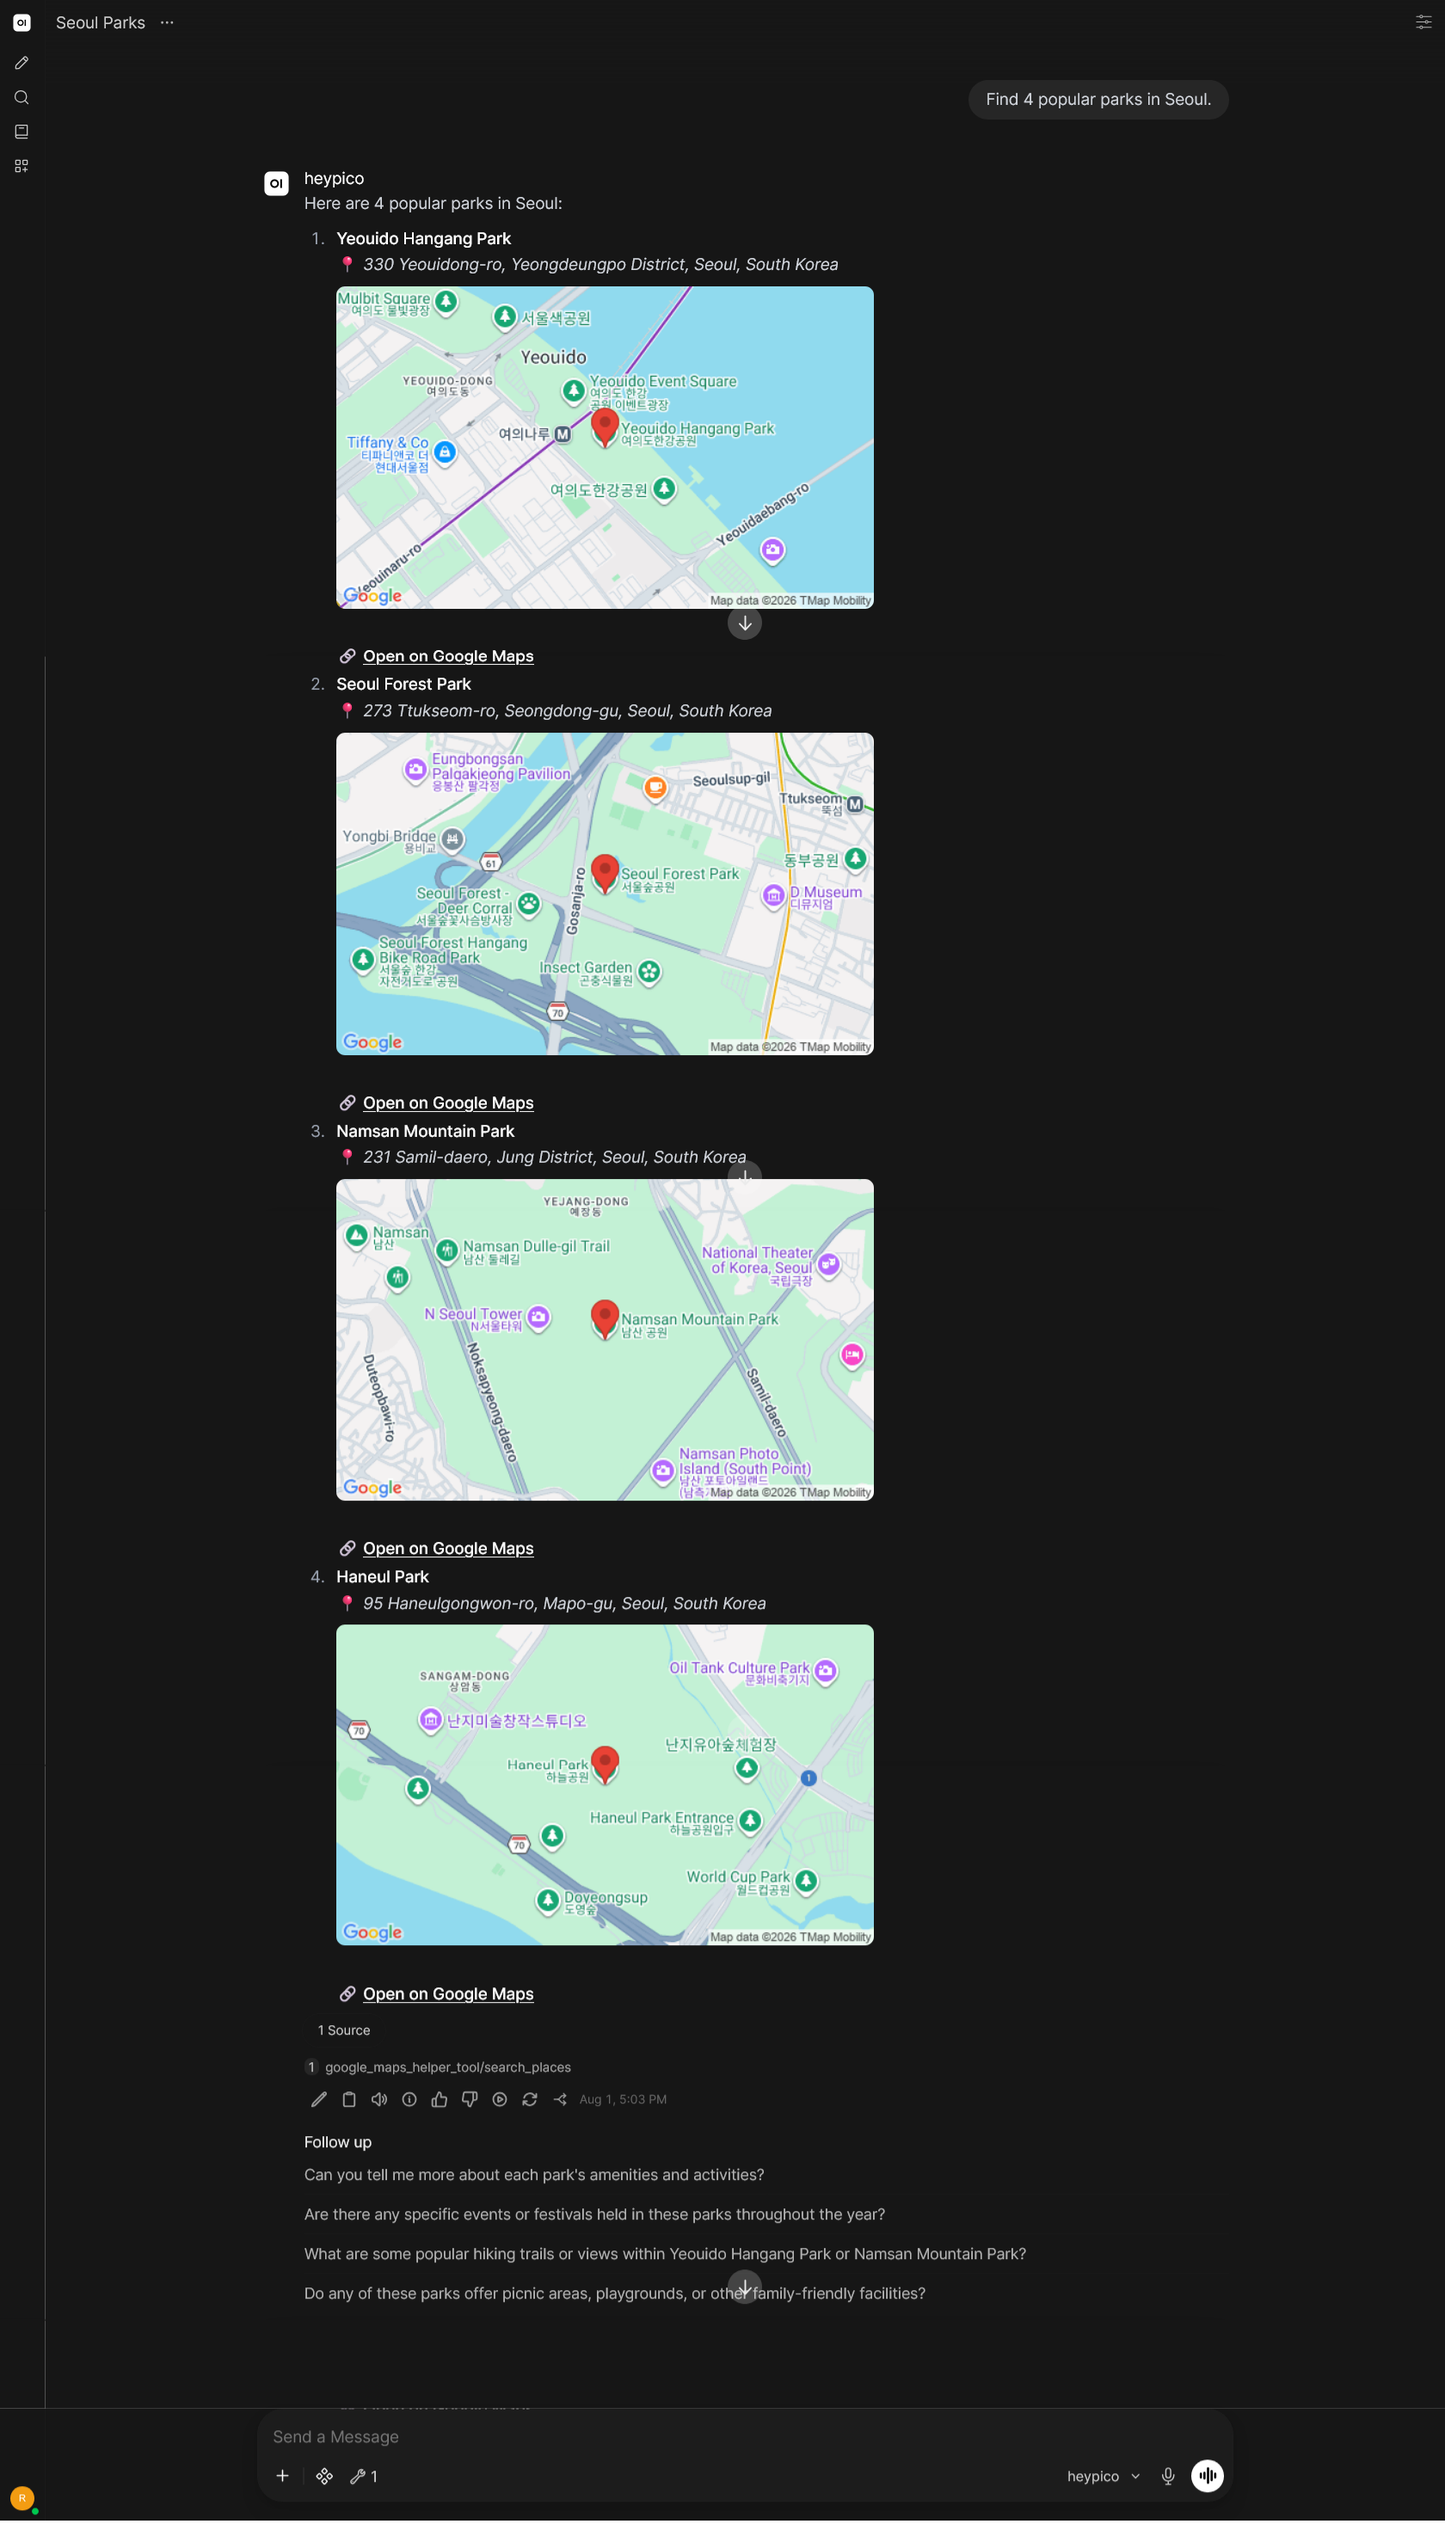
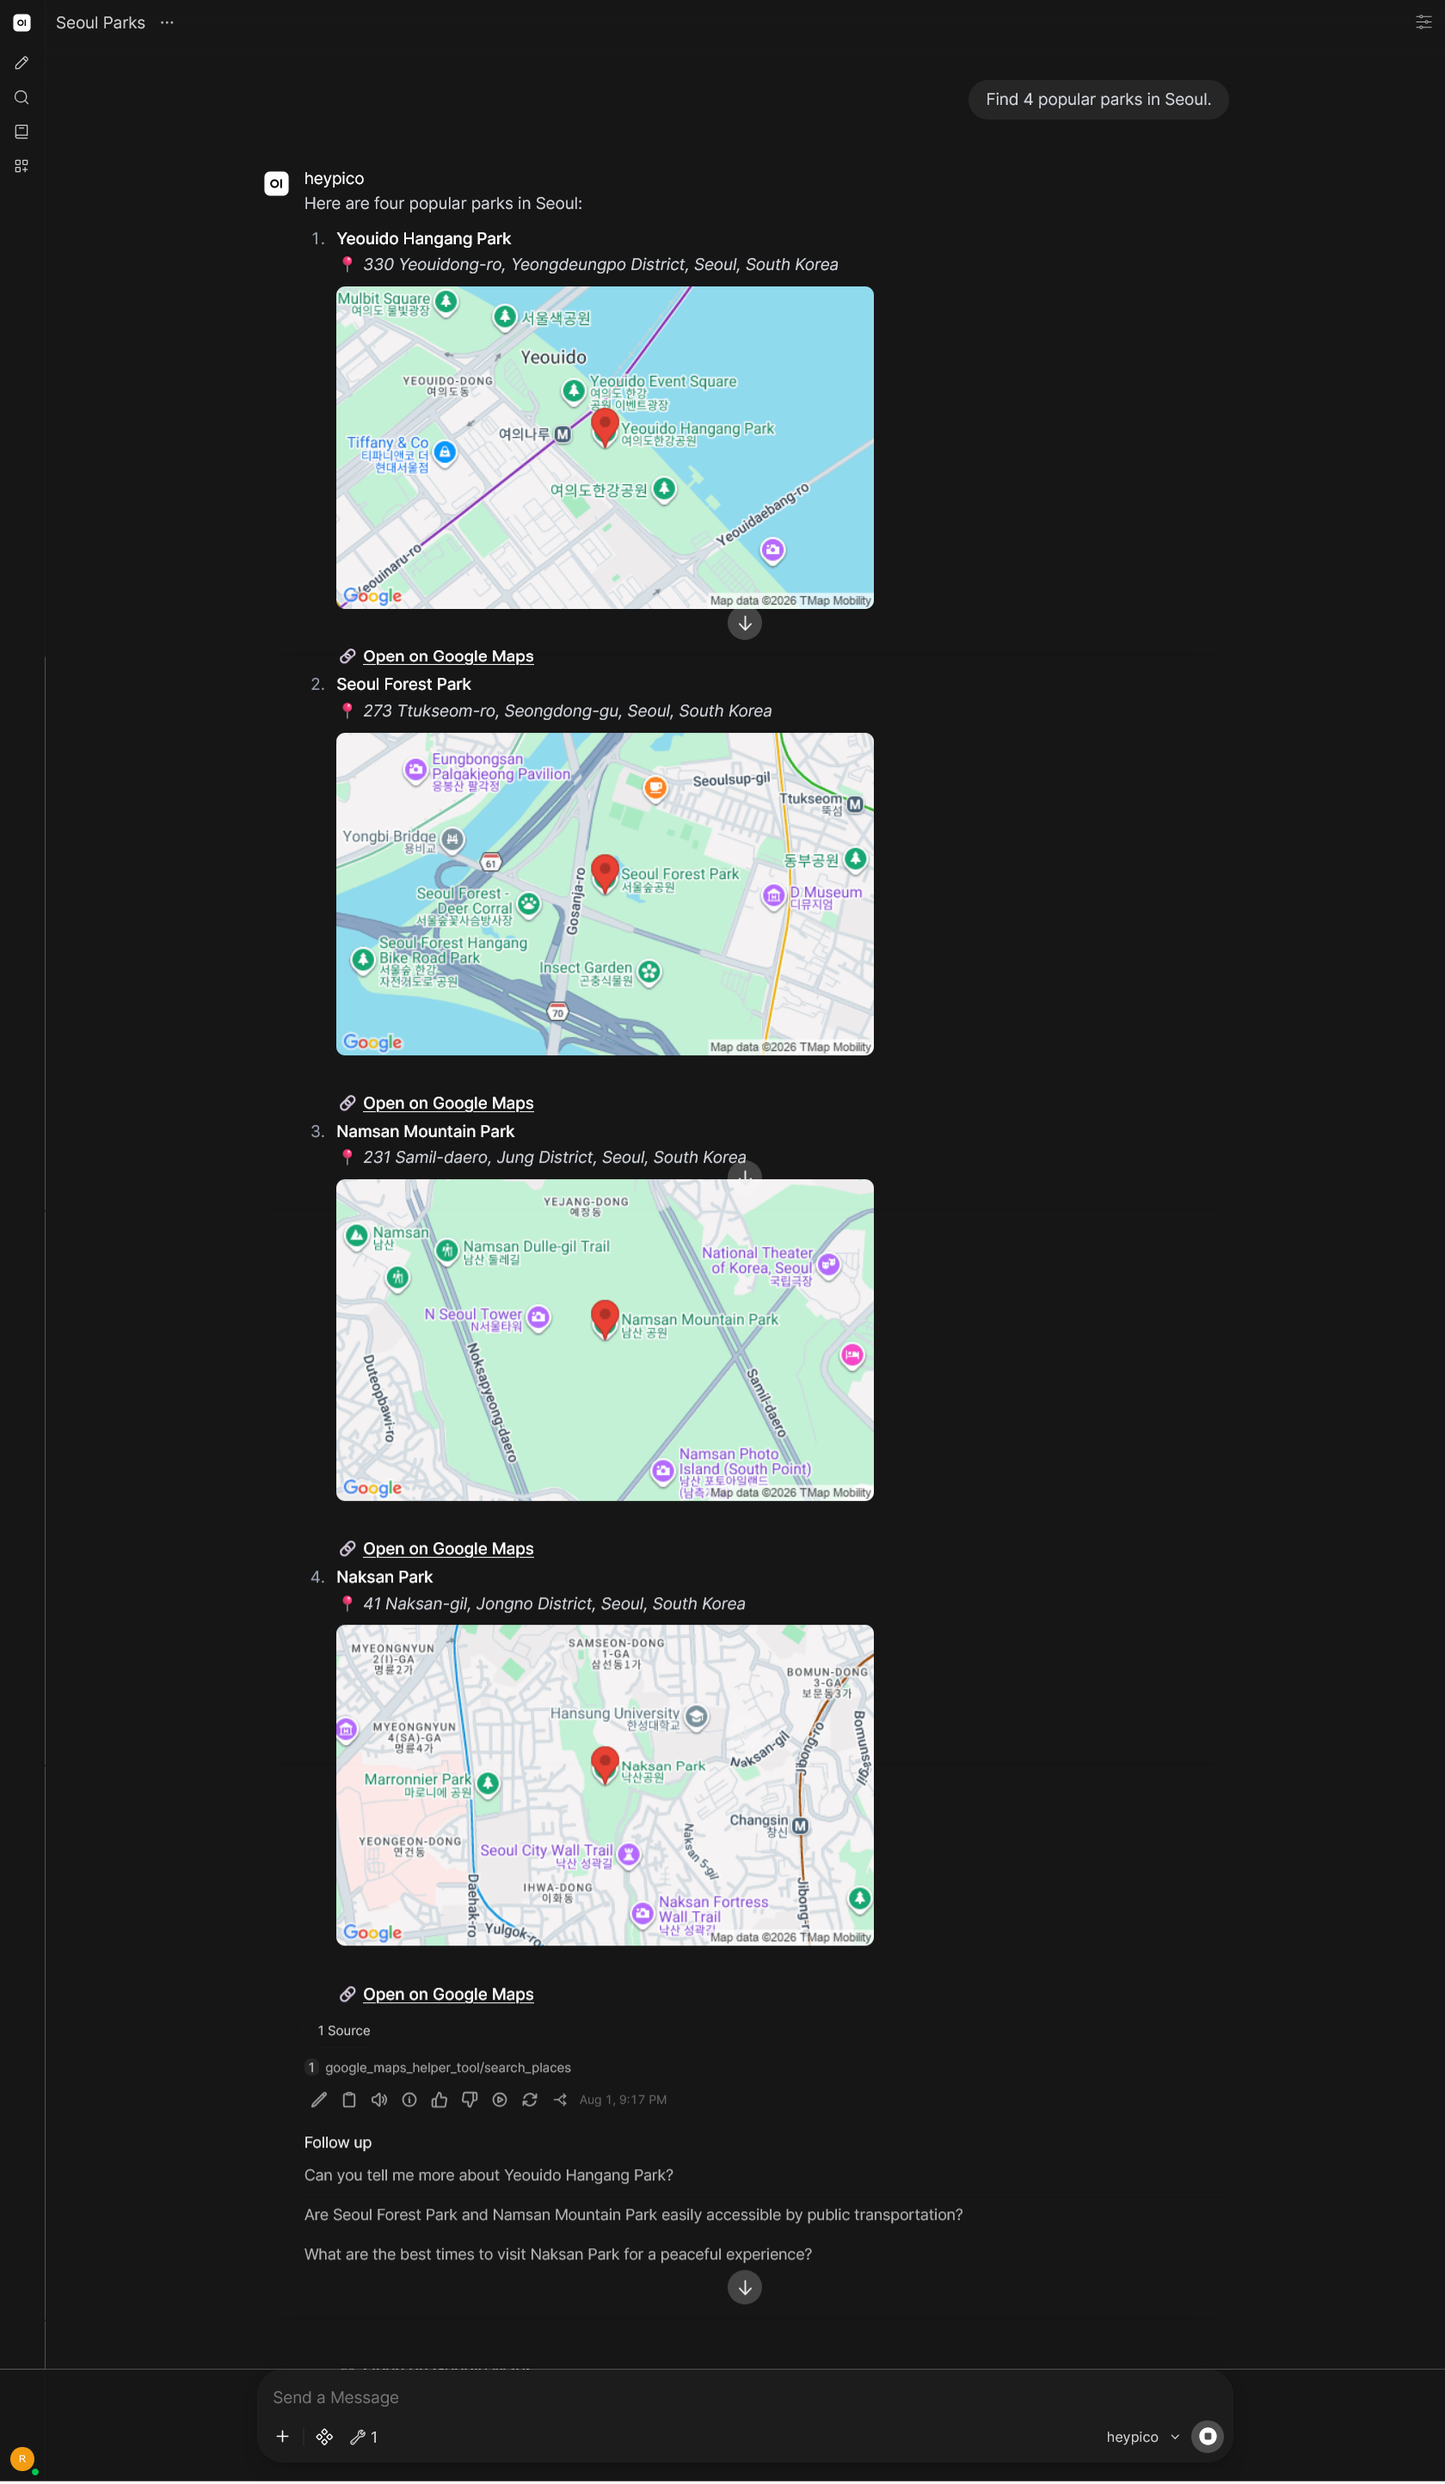
docs: insert latest picture for tests on readme

Changed region(s): [[0.1857, 0.0623, 0.619, 0.9349], [0.0, 0.9661, 1.0, 1.0]]

diff --git a/readme.md b/readme.md
@@ -141,27 +141,27 @@ These are examples of the prompts and their results:
 ![Location Search Result](./assets/test_1.png)
 
 #### Response Markdown:
-Here are 4 popular parks in Seoul:
+Here are four popular parks in Seoul:
 
 1. **Yeouido Hangang Park**  
     📍 *330 Yeouidong-ro, Yeongdeungpo District, Seoul, South Korea*  
-    *(Static Map Image Redacted for Credential Security)*  
+    *(Static Map Image Redacted for Credential Security)*    
     🔗 **[Open on Google Maps](https://www.google.com/maps/search/?api=1&query=37.5267106,126.9347112&query_place_id=ChIJ77fEAzuffDURLEWNv56G2KQ)**  
 
-2. **Seoul Forest Park**  
+2. **Seoul Forest Park**   
     📍 *273 Ttukseom-ro, Seongdong-gu, Seoul, South Korea*  
-    *(Static Map Image Redacted for Credential Security)*  
+    *(Static Map Image Redacted for Credential Security)*    
     🔗 **[Open on Google Maps](https://www.google.com/maps/search/?api=1&query=37.544387799999996,127.03744239999999&query_place_id=ChIJK_b0UX2jfDURmkYPvmWYm90)**  
 
-3. **Namsan Mountain Park**  
+3. **Namsan Mountain Park**   
     📍 *231 Samil-daero, Jung District, Seoul, South Korea*  
-    *(Static Map Image Redacted for Credential Security)*  
+    *(Static Map Image Redacted for Credential Security)*    
     🔗 **[Open on Google Maps](https://www.google.com/maps/search/?api=1&query=37.5509895,126.99089910000001&query_place_id=ChIJm3V0fu2ifDURL5X2_nPOeVQ)**  
 
-4. **Haneul Park**  
-    📍 *95 Haneulgongwon-ro, Mapo-gu, Seoul, South Korea*  
-    *(Static Map Image Redacted for Credential Security)*  
-    🔗 **[Open on Google Maps](https://www.google.com/maps/search/?api=1&query=37.5674533,126.8854782&query_place_id=ChIJX2GTuVJFezURGK4FSyWdbak)**  
+4. **Naksan Park**   
+    📍 *41 Naksan-gil, Jongno District, Seoul, South Korea*    
+    *(Static Map Image Redacted for Credential Security)*    
+    🔗 **[Open on Google Maps](https://www.google.com/maps/search/?api=1&query=37.580657099999996,127.00748349999999&query_place_id=ChIJ6RPSci2jfDURXTSdf7JjYp8)**  
 
 </details>
 
@@ -172,34 +172,42 @@ Here are 4 popular parks in Seoul:
 ![Location Search Result](./assets/test_2.png)
 
 #### Response Markdown:
-**Notice to User:** We have capped the output at 5 results to prevent the response from getting too long.
+We found 5 crowded restaurants in Singapore for you.
 
-We were unable to find more than 5 crowded restaurants in Singapore within our search capabilities. However, here are the top 5 places matching your query:
-
-1. **Burnt Ends**  
-    📍 *7 Dempsey Rd, #01-02, Singapore 249671*  
-    *(Static Map Image Redacted for Credential Security)*  
-    🔗 **[Open on Google Maps](https://www.google.com/maps/search/?api=1&query=7%20Dempsey%20Rd,%20#01-02,%20Singapore%202494671&query_place_id=ChIJLZ9DYnIZ2jERQ51Am7WzJLM)**  
-
-2. **Leila Singapore**  
+**1. Leila Singapore**  
     📍 *12 Teck Lim Rd, Singapore 088387*  
-    *(Static Map Image Redacted for Credential Security)*  
-    🔗 **[Open on Google Maps](https://www.google.com/maps/search/?api=1&query=12%20Teck%20Lim%20Rd,%20Singapore%2088387&query_place_id=ChIJDyDiFuEZ2jERBuobsH0BAZE)**  
+    *(Static Map Image Redacted for Credential Security)*    
+    🔗 **[Open on Google Maps](https://www.google.com/maps/search/?api=1&query=12+Teck+Lim+Rd,+Singapore+088387&query_place_id=ChIJDyDiFuEZ2jERBuobsH0BAZE)**  
 
-3. **Kimchi Dining | Korean Restaurant Singapore**  
-    📍 *181 Orchard Rd, #06-10 Orchard Central Singapore 238896*  
-    *(Static Map Image Redacted for Credential Security)*  
-    🔗 **[Open on Google Maps](https://www.google.com/maps/search/?api=1&query=181%20Orchard%20Rd,%20#06-10,%20Orchard%20Central,%20Singapore%20238896&query_place_id=ChIJSxaj9WgZ2jERRzKy45IsYl8)**  
+---
 
-4. **Lazy Lizard Flora Vista**  
-    📍 *7 Ang Mo Kio Street 66 #01-09 & #01-12, Flora Vista, Singapore 567708*  
-    *(Static Map Image Redacted for Credential Security)*  
-    🔗 **[Open on Google Maps](https://www.google.com/maps/search/?api=1&query=7%20Ang%20Mo%20Kio%20St%2066,%20#01-09%20-%20#01-12,%20Flora%20Vista,%20Singapore%20576708&query_place_id=ChIJ_W4jlTUX2jERTsCj3jMn0tM)**  
+**2. KOMA Singapore**  
+    📍 *10 Bayfront Ave, B1-67 The Shoppes, Marina Bay Sands, Singapore 018956*  
+    *(Static Map Image Redacted for Credential Security)*    
+    🔗 **[Open on Google Maps](https://www.google.com/maps/search/?api=1&query=10+Bayfront+Ave,+Singapore+018956&query_place_id=ChIJFzUYYm8Z2jERs4gjq8fcHCA)**  
 
-5. **Eden Restaurant**  
+---
+
+**3. Burnt Ends**  
+    📍 *7 Dempsey Rd, #01-02, Singapore 249671*  
+    *(Static Map Image Redacted for Credential Security)*    
+    🔗 **[Open on Google Maps](https://www.google.com/maps/search/?api=1&query=7+Dempsey+Rd,+Singapore+249671&query_place_id=ChIJLZ9DYnIZ2jERQ51Am7WzJLM)**  
+
+---
+
+**4. Eden Restaurant**  
     📍 *270 Orchard Rd, Singapore 238857*  
-    *(Static Map Image Redacted for Credential Security)*  
-    🔗 **[Open on Google Maps](https://www.google.com/maps/search/?api=1&query=270%20Orchard%20Rd,%20Singapore%20238857&query_place_id=ChIJO9op3n8Z2jERkJtP5VHiksg)**  
+    *(Static Map Image Redacted for Credential Security)*    
+    🔗 **[Open on Google Maps](https://www.google.com/maps/search/?api=1&query=270+Orchard+Rd,+Singapore+238857&query_place_id=ChIJO9op3n8Z2jERkJtP5VHiksg)**  
+
+---
+
+**5. Kimchi Dining | Korean Restaurant Singapore**  
+    📍 *181 Orchard Rd, #06-10 Orchard Central Singapore 238896*  
+    *(Static Map Image Redacted for Credential Security)*    
+    🔗 **[Open on Google Maps](https://www.google.com/maps/search/?api=1&query=181+Orchard+Rd,+#06-10+Orchard+Central,+Singapore+238896&query_place_id=ChIJSxaj9WgZ2jERRzKy45IsYl8)**  
+
+**Note:** We have capped the output at 5 results to prevent the response from getting too long.
 
 </details>
 
@@ -210,32 +218,46 @@ We were unable to find more than 5 crowded restaurants in Singapore within our s
 ![Location Search Result](./assets/test_3.png)
 
 #### Response Markdown:
-Based on the provided context from the Google Maps Helper Tool, here are the top 5 results for "tastiest food spots in Chinatown, Singapore":
+### Response to User Query:
 
-1. 欢喜大排档｜HuanxiChineseRestaurant  
-    📍 *7 Mosque St, Singapore 059487*  
-    *(Static Map Image Redacted for Credential Security)*  
-    🔗 **[Open on Google Maps](https://www.google.com/maps/search/?api=1&query=1.2840536,103.84415260000002&query_place_id=ChIJw9DmRAAZ2jERxBnXOnMmxiI)**  
+The user has asked for recommendations on the tastiest food spots in Chinatown, Singapore.
 
-2. Fortune Garden  
-    📍 *61 Pagoda St, MRT Exit A, Singapore 059220*  
-    *(Static Map Image Redacted for Credential Security)*  
-    🔗 **[Open on Google Maps](https://www.google.com/maps/search/?api=1&query=1.2834630999999999,103.84395959999999&query_place_id=ChIJsW6RkwYZ2jERPd7CCOsiCY8)**  
+To answer this query, we will rely on information from the Google Maps Helper Tool provided earlier. The tool returned three locations matching the search term.
 
-3. Dong Bei Ren Jia  
-    📍 *22 Upper Cross St, Singapore 058334*  
-    *(Static Map Image Redacted for Credential Security)*  
-    🔗 **[Open on Google Maps](https://www.google.com/maps/search/?api=1&query=1.283946,103.845344&query_place_id=ChIJL2lVrgwZ2jERGxnaLBvw9Zc)**  
+#### 1. 欢喜大排档｜HuanxiChineseRestaurant
+This restaurant is located at 7 Mosque St, Singapore 059487.
 
-4. Chinatown Food Street  
-    📍 *41 Smith St, Singapore 058953*  
-    *(Static Map Image Redacted for Credential Security)*  
-    🔗 **[Open on Google Maps](https://www.google.com/maps/search/?api=1&query=1.2822896,103.84392799999999&query_place_id=ChIJY4OYJXMZ2jERq9aW_MKjwAc)**  
+According to the Google Maps data, it has an average rating of [4.5] stars on Google Reviews.
 
-5. Xiang Xiang Hunan Cuisine 湘香湖南菜 @ Chinatown  
-    📍 *8 Mosque St, #08/09/10, Singapore 059488*  
-    *(Static Map Image Redacted for Credential Security)*  
-    🔗 **[Open on Google Maps](https://www.google.com/maps/search/?api=1&query=1.2839725,103.84431579999999&query_place_id=ChIJz5q97wEZ2jERGSUsTLsiXiY)**  
+*(Static Map Image Redacted for Credential Security)*  
+
+🔗 **[Open on Google Maps](https://www.google.com/maps/search/?api=1&query=1.2840536,103.84415260000002&query_place_id=ChIJw9DmRAAZ2jERxBnXOnMmxiI)**
+
+#### 2. Fortune Garden
+This restaurant is located at 61 Pagoda St, MRT Exit A, Singapore 059220.
+
+According to the Google Maps data, it has an average rating of [4.1] stars on Google Reviews.
+
+*(Static Map Image Redacted for Credential Security)*  
+
+🔗 **[Open on Google Maps](https://www.google.com/maps/search/?api=1&query=1.2834630999999999,103.84395959999999&query_place_id=ChIJsW6RkwYZ2jERPd7CCOsiCY8)**
+
+#### 3. Dong Bei Ren Jia
+This restaurant is located at 22 Upper Cross St, Singapore 058334.
+
+According to the Google Maps data, it has an average rating of [4.4] stars on Google Reviews.
+
+*(Static Map Image Redacted for Credential Security)*  
+
+🔗 **[Open on Google Maps](https://www.google.com/maps/search/?api=1&query=1.283946,103.845344&query_place_id=ChIJL2lVrgwZ2jERGxnaLBvw9Zc)**
+
+These three locations have been identified by the Google Maps Helper Tool as potential places to try for delicious food in Chinatown, Singapore.
+
+However, please note that we cannot determine subjective rankings or real-time metrics such as crowd levels without direct access to live data. The ratings mentioned above are based on historical reviews and might not reflect current conditions.
+
+It is also important to mention that the number of results returned by the tool was capped at 3 due to the search term's specificity, and further refinement may provide additional locations matching the query.
+
+Based on this information, we recommend trying these three locations for a taste of Singapore's Chinatown culinary scene.
 
 </details>
 
